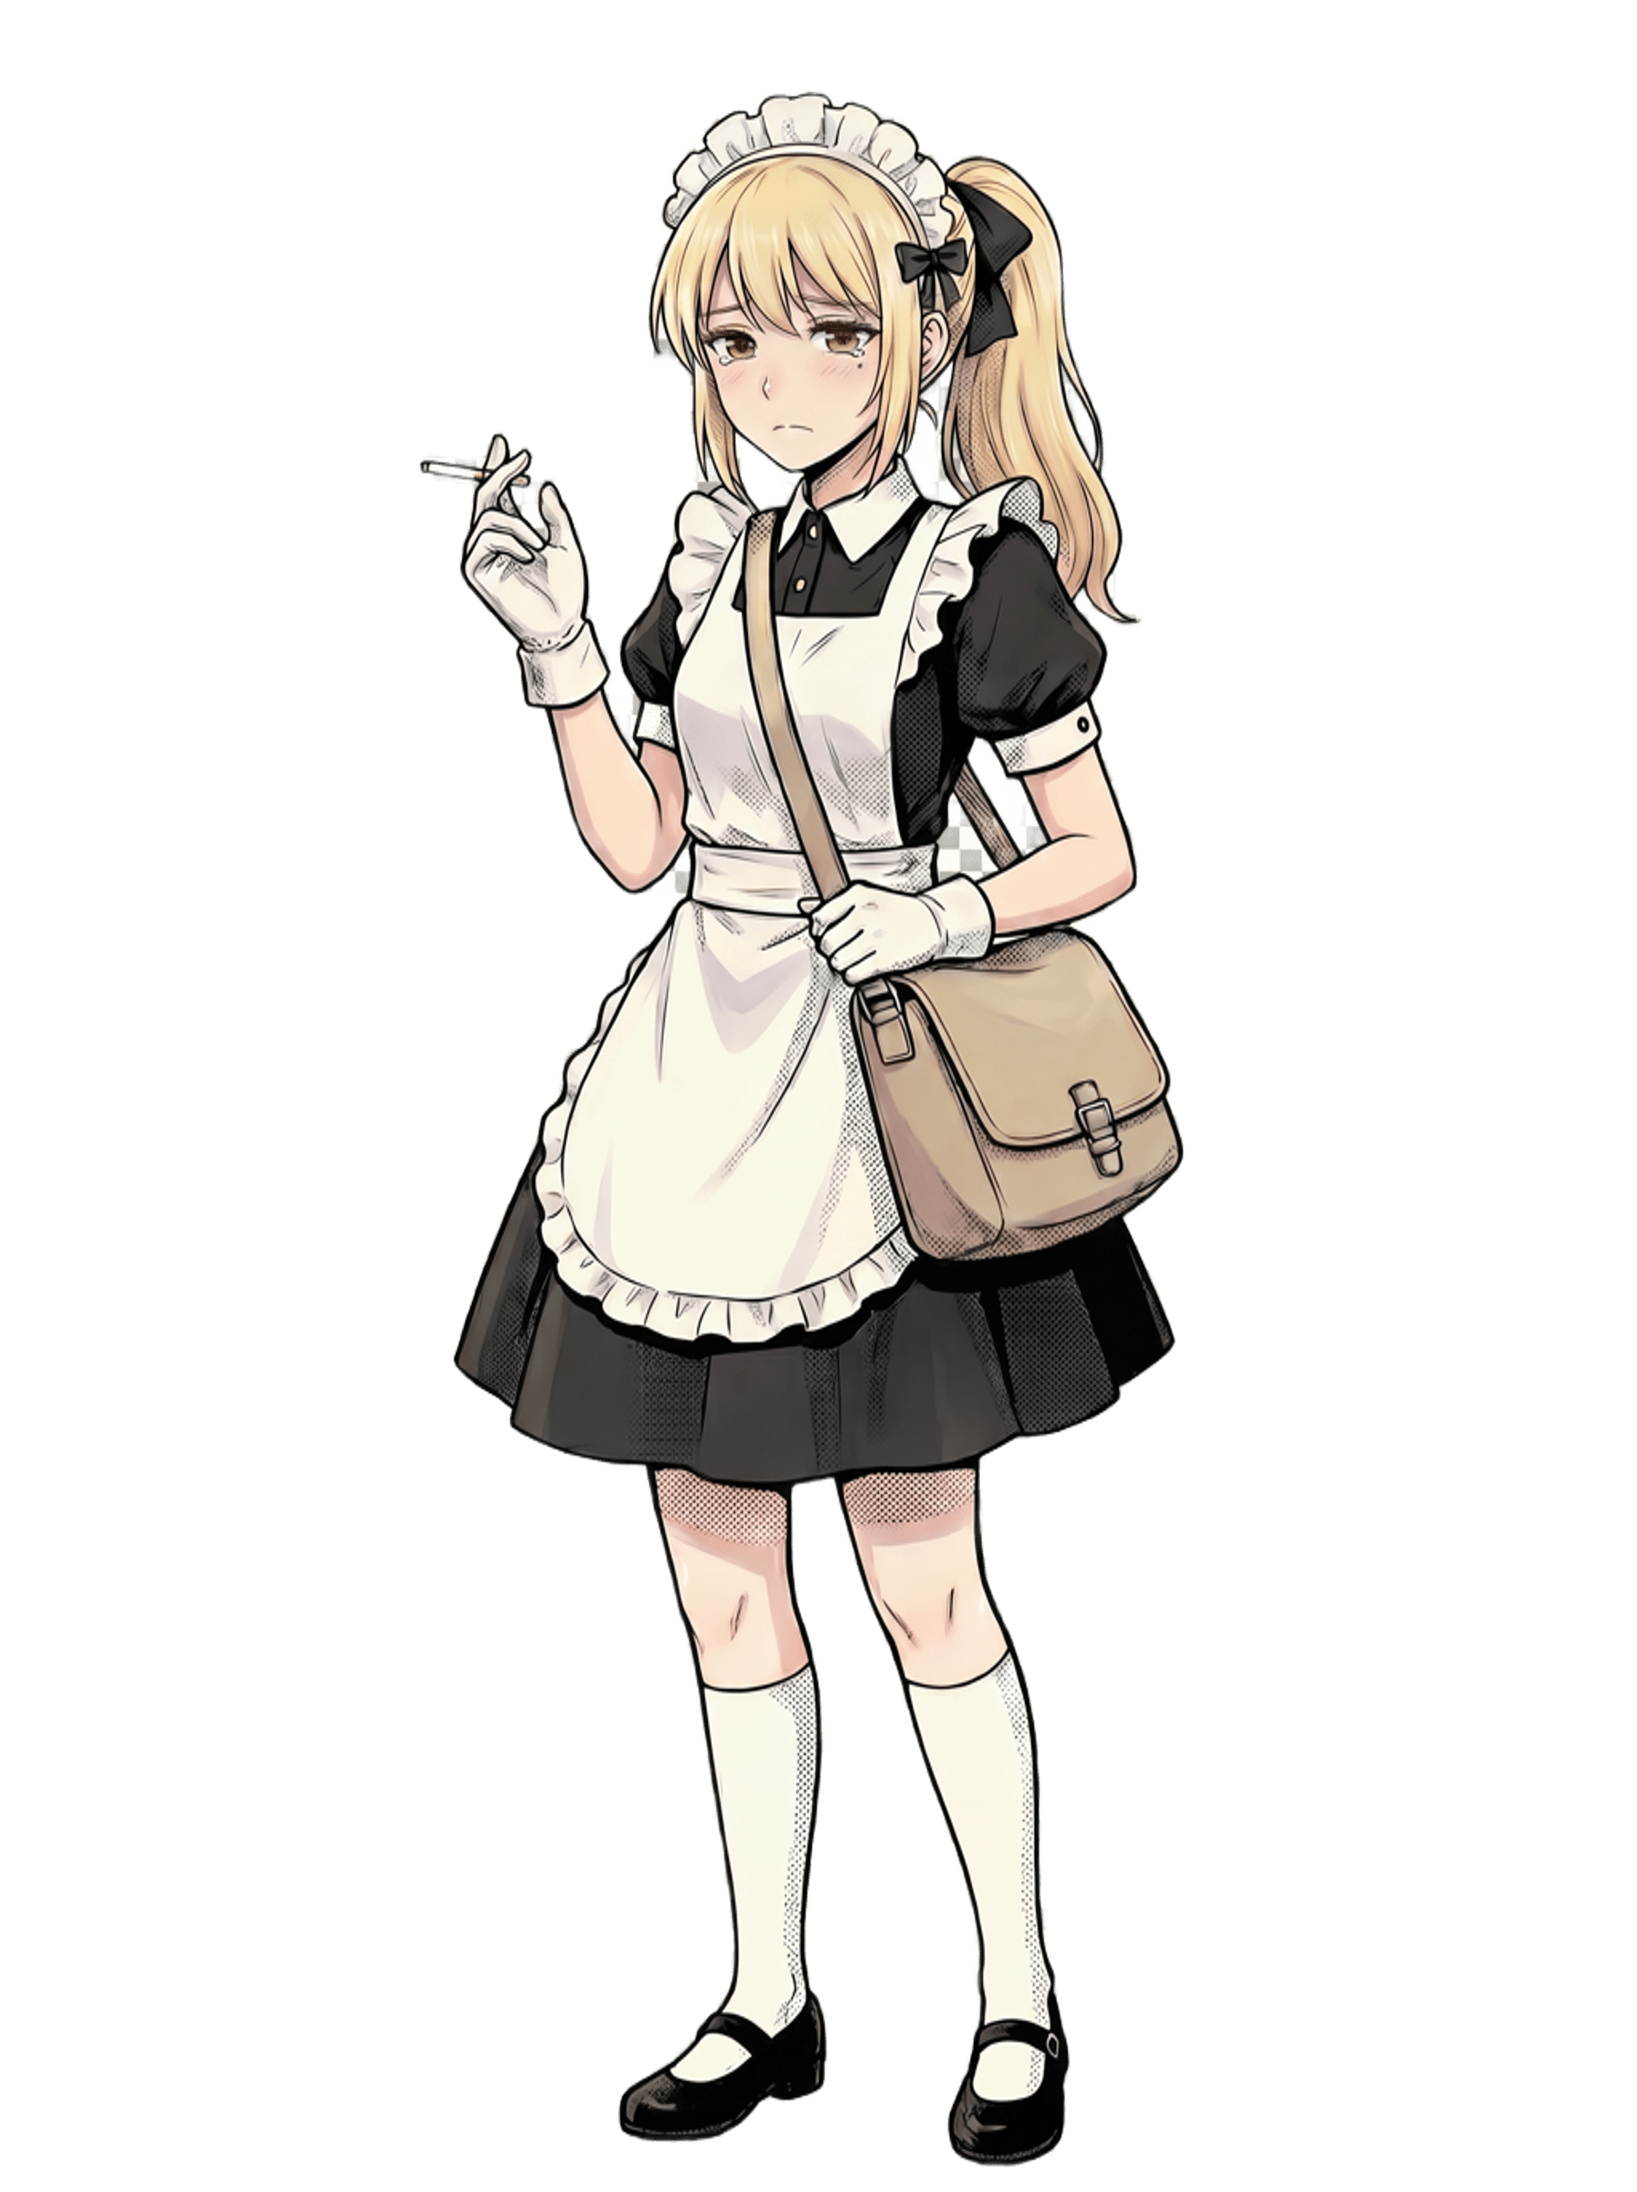
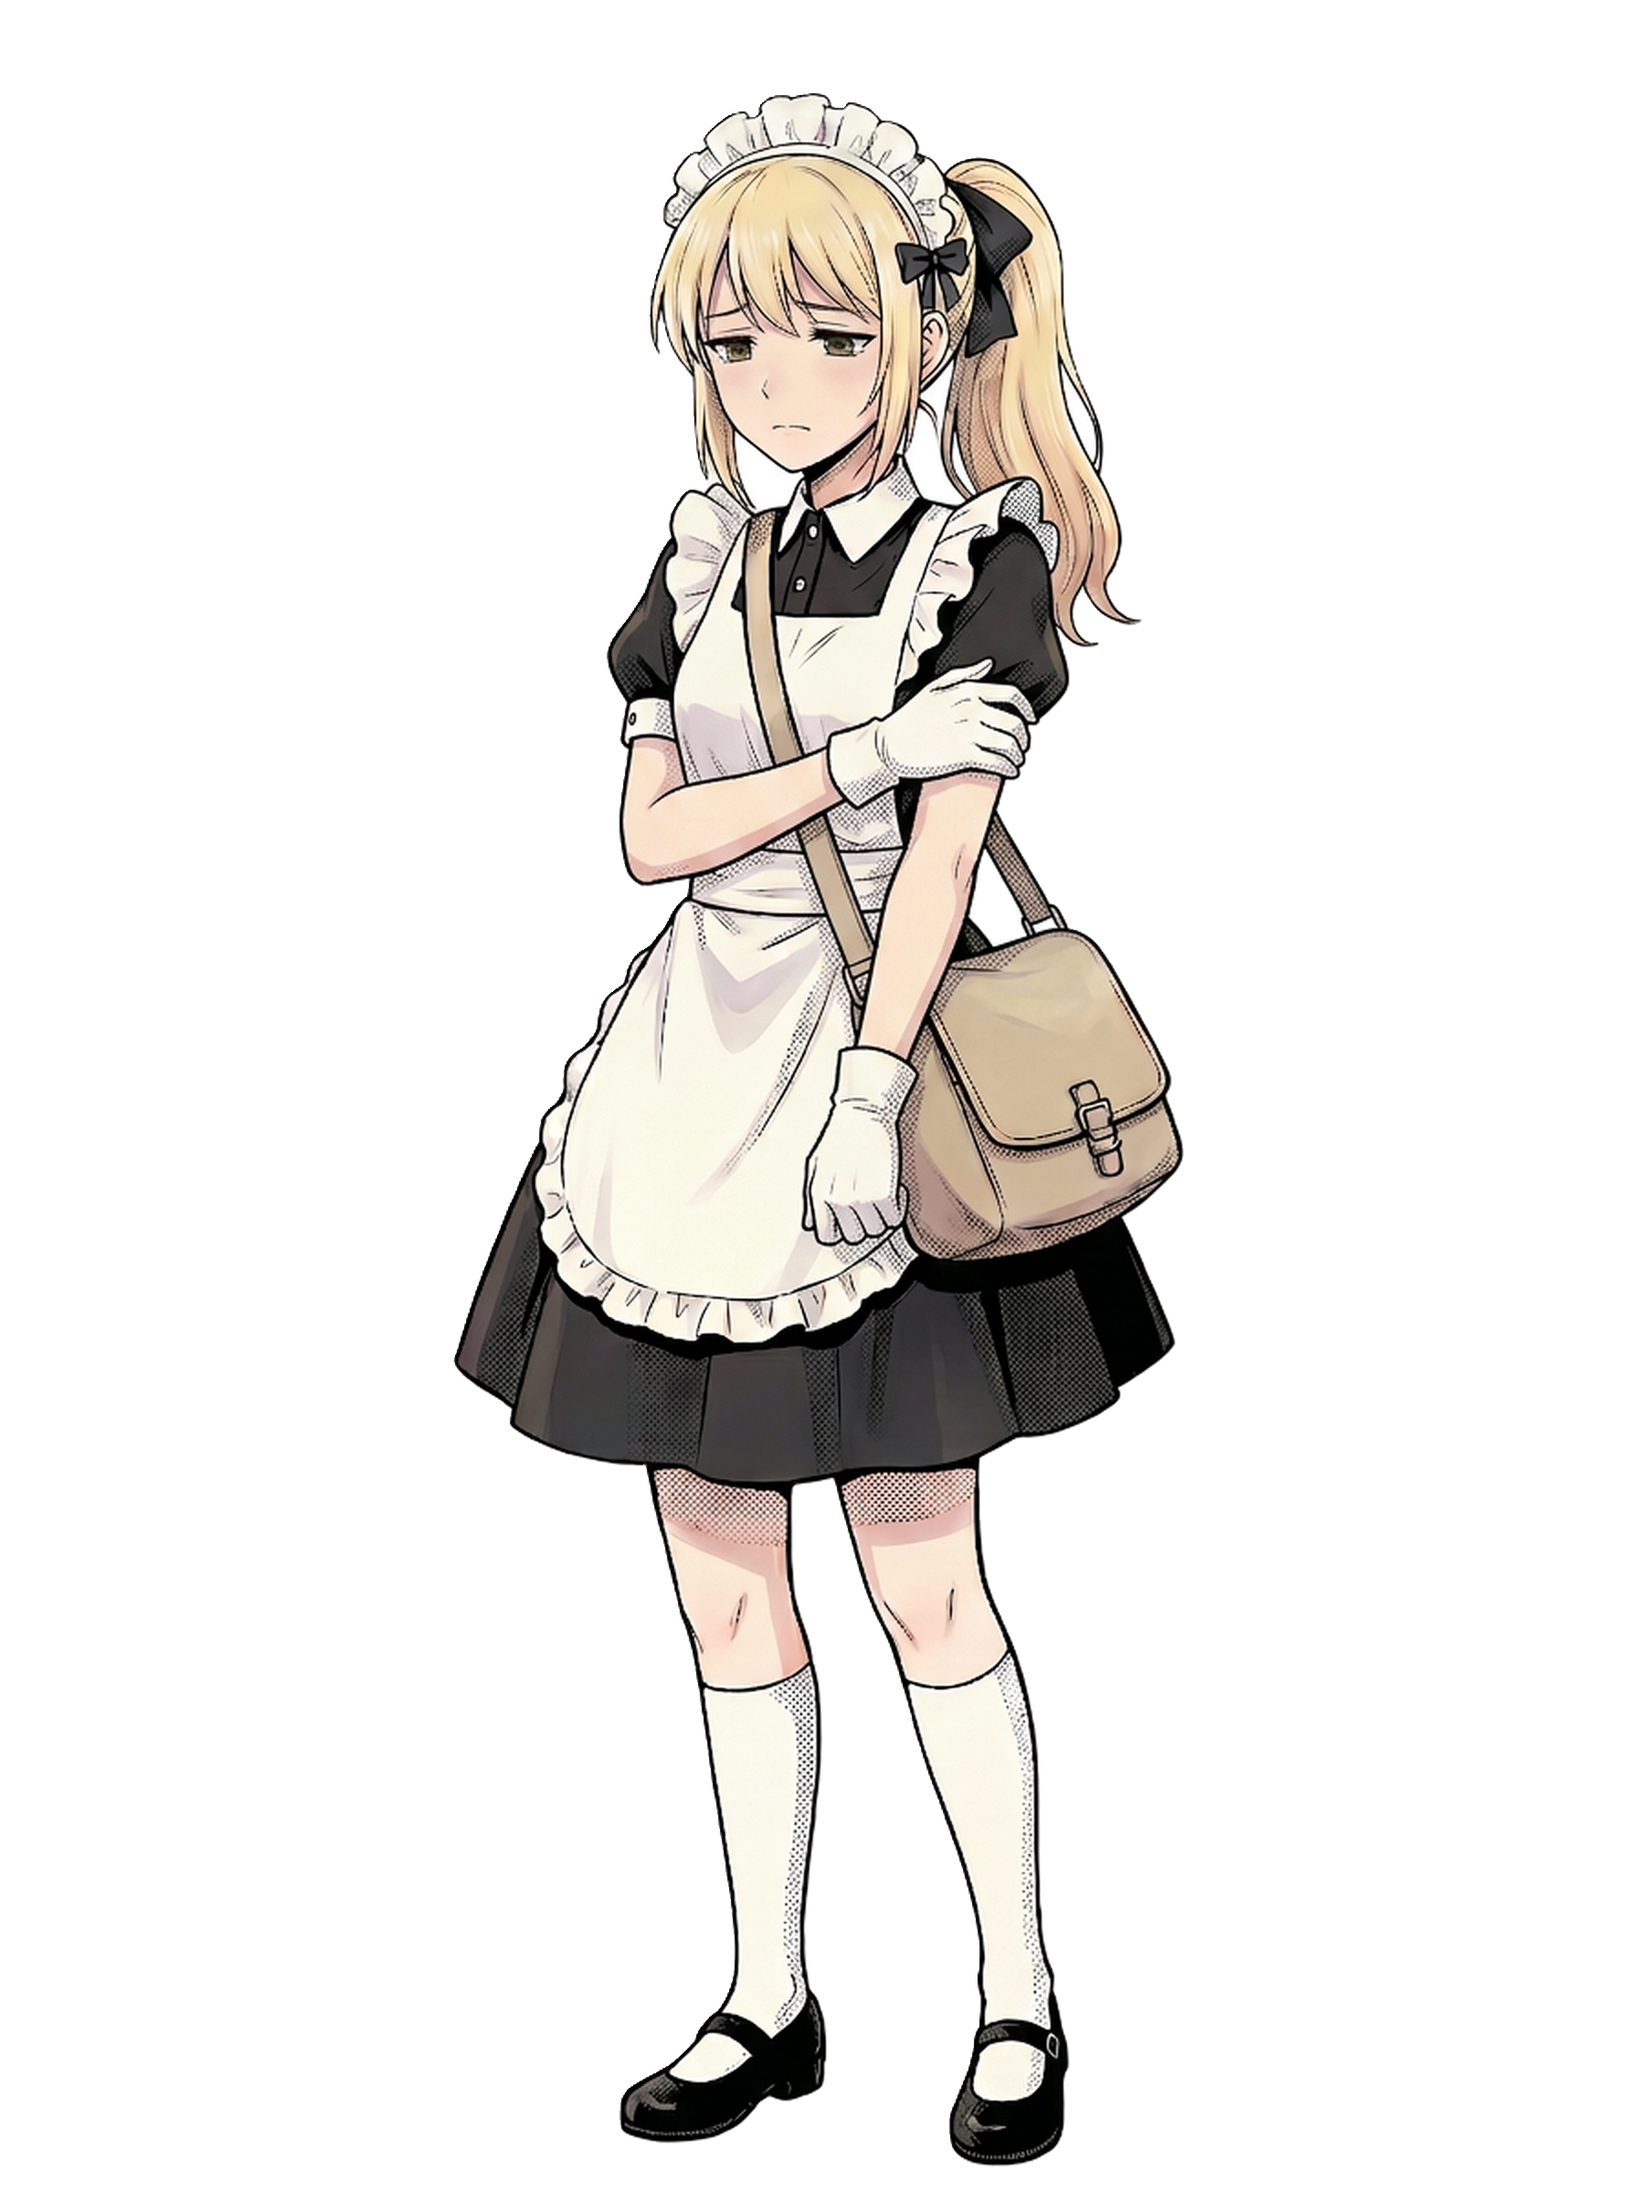
Add 5 new Lena sprites and give lena_snide and lena_sad distinct poses

diff --git a/script/prologue_3_depot.js b/script/prologue_3_depot.js
@@ -121,7 +121,7 @@ window.VN_CHAPTERS.push({
     },
     {
       speaker: "Лена",
-      sprite: { char: "lena", emotion: "neutral", pos: "right" },
+      sprite: { char: "lena", emotion: "coffee", pos: "right" },
       text: "Двойной чёрный кофе без сахара. Сварила такую дозу, что от одного запаха глаз перестаёт дёргаться. Подставляй стаканчик, пока горячий."
     },
     {
@@ -130,7 +130,7 @@ window.VN_CHAPTERS.push({
     },
     {
       speaker: "Лена",
-      sprite: { char: "lena", emotion: "snide", pos: "right" },
+      sprite: { char: "lena", emotion: "thoughtful", pos: "right" },
       text: "Чего с утра такой притихший ездишь, профессор педальный? Обычно ты мне на пересменке уже успеваешь рассказать какую-нибудь дичь из своих умных книжек, а сегодня молчишь как партизан."
     },
     {
@@ -175,7 +175,7 @@ window.VN_CHAPTERS.push({
               },
               {
                 speaker: "Лена",
-                sprite: { char: "lena", emotion: "snide", pos: "right" },
+                sprite: { char: "lena", emotion: "thoughtful", pos: "right" },
                 text: "Бесплатный сыр, Саня, сама знаешь по какому ведомству проходит. Когда человеку вдруг начинает ненормально везти во всём подряд, потом обычно выясняется, что счёт за банкет просто отложили до закрытия заведения."
               }
             ]
@@ -191,7 +191,7 @@ window.VN_CHAPTERS.push({
               },
               {
                 speaker: "Лена",
-                sprite: { char: "lena", emotion: "snide", pos: "right" },
+                sprite: { char: "lena", emotion: "angry", pos: "right" },
                 text: "А ты не завидуй, книгочей! Во-первых, в этом чепчике чаевых оставляют в два раза больше, чем твоему унылому лицу. А во-вторых, когда бывшие преподаватели видят меня на улице в таком виде, они в ужасе переходят на другой тротуар и не лезут с тупыми расспросами, почему я бросила учёбу. Сплошная выгода!"
               }
             ]
@@ -214,7 +214,7 @@ window.VN_CHAPTERS.push({
     },
     {
       speaker: "Лена",
-      sprite: { char: "lena", emotion: "neutral", pos: "left" },
+      sprite: { char: "lena", emotion: "surprised", pos: "left" },
       text: "Дмитрий Валерьевич, давайте я заберу Речную. Мне всё равно в ту сторону через мост возвращаться."
     },
     {
@@ -233,7 +233,7 @@ window.VN_CHAPTERS.push({
               },
               {
                 speaker: "Лена",
-                sprite: { char: "lena", emotion: "snide", pos: "left" },
+                sprite: { char: "lena", emotion: "shy", pos: "left" },
                 text: "Ну смотри, граф Орехов, сам напросился. В следующий раз с тебя двойной эспрессо."
               }
             ]

diff --git a/index.html b/index.html
@@ -4,7 +4,7 @@
   <meta charset="UTF-8" />
   <meta name="viewport" content="width=device-width, initial-scale=1.0" />
   <title>Не смотри на небо</title>
-  <link rel="stylesheet" href="styles.css?v=20261031_11" />
+  <link rel="stylesheet" href="styles.css?v=20261031_12" />
 </head>
 <body>
   <div id="app">
@@ -260,13 +260,13 @@
   </div>
 
   <!-- SCRIPT CHAPTERS -->
-  <script src="script/prologue_1_morning.js?v=20261031_11"></script>
-  <script src="script/prologue_2_city.js?v=20261031_11"></script>
-  <script src="script/prologue_3_depot.js?v=20261031_11"></script>
-  <script src="script/prologue_4_crash.js?v=20261031_11"></script>
-  <script src="script/day1_1_mirael.js?v=20261031_11"></script>
-  <script src="script/day1_2_valeria.js?v=20261031_11"></script>
-  <script src="script/day1_3_evening.js?v=20261031_11"></script>
-  <script src="engine.js?v=20261031_11"></script>
+  <script src="script/prologue_1_morning.js?v=20261031_12"></script>
+  <script src="script/prologue_2_city.js?v=20261031_12"></script>
+  <script src="script/prologue_3_depot.js?v=20261031_12"></script>
+  <script src="script/prologue_4_crash.js?v=20261031_12"></script>
+  <script src="script/day1_1_mirael.js?v=20261031_12"></script>
+  <script src="script/day1_2_valeria.js?v=20261031_12"></script>
+  <script src="script/day1_3_evening.js?v=20261031_12"></script>
+  <script src="engine.js?v=20261031_12"></script>
 </body>
 </html>

diff --git a/engine.js b/engine.js
@@ -1,6 +1,6 @@
 // ДВИЖОК ВИЗУАЛЬНОЙ НОВЕЛЛЫ «НЕ СМОТРИ НА НЕБО» ($WAG ENTERTAINMENT)
 (function () {
-  const ASSET_VER = "20261031_11";
+  const ASSET_VER = "20261031_12";
 
   function withVer(url) {
     if (!url) return "";
@@ -39,7 +39,7 @@
       return withVer(`assets/characters/nika_${mapped}.png`);
     },
     lena: (emo) => {
-      const valid = ["happy", "neutral", "sad", "snide", "tired"];
+      const valid = ["happy", "neutral", "sad", "snide", "tired", "angry", "surprised", "thoughtful", "coffee", "shy"];
       const mapped = valid.includes(emo) ? emo : "tired";
       return withVer(`assets/characters/lena_${mapped}.png`);
     },
